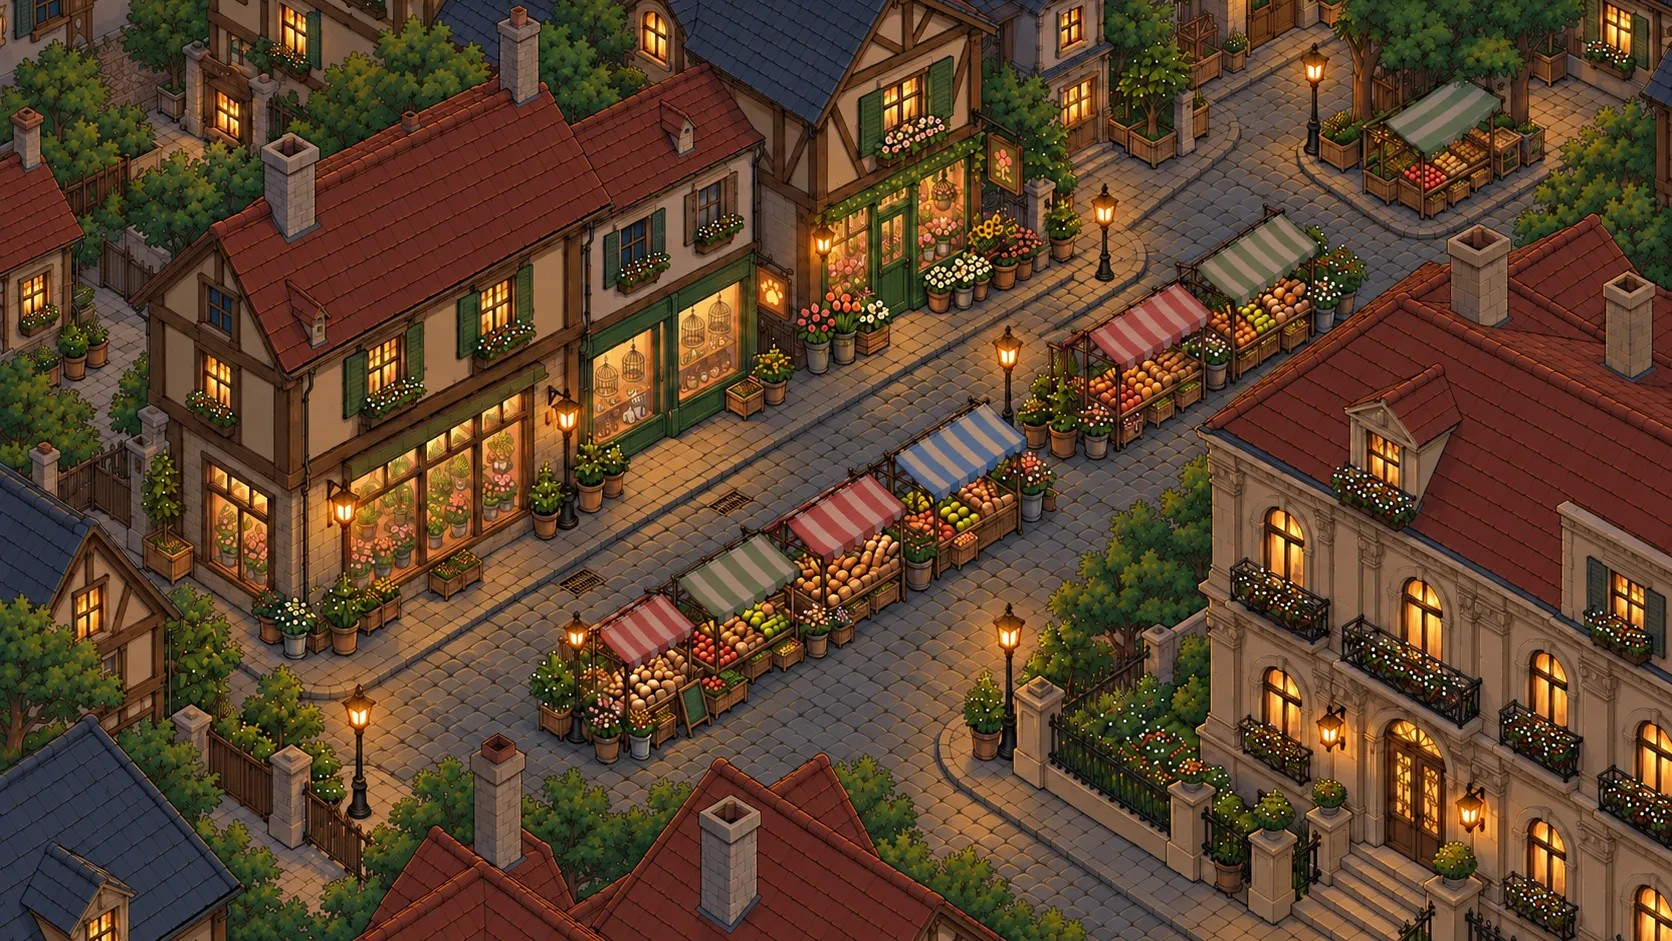
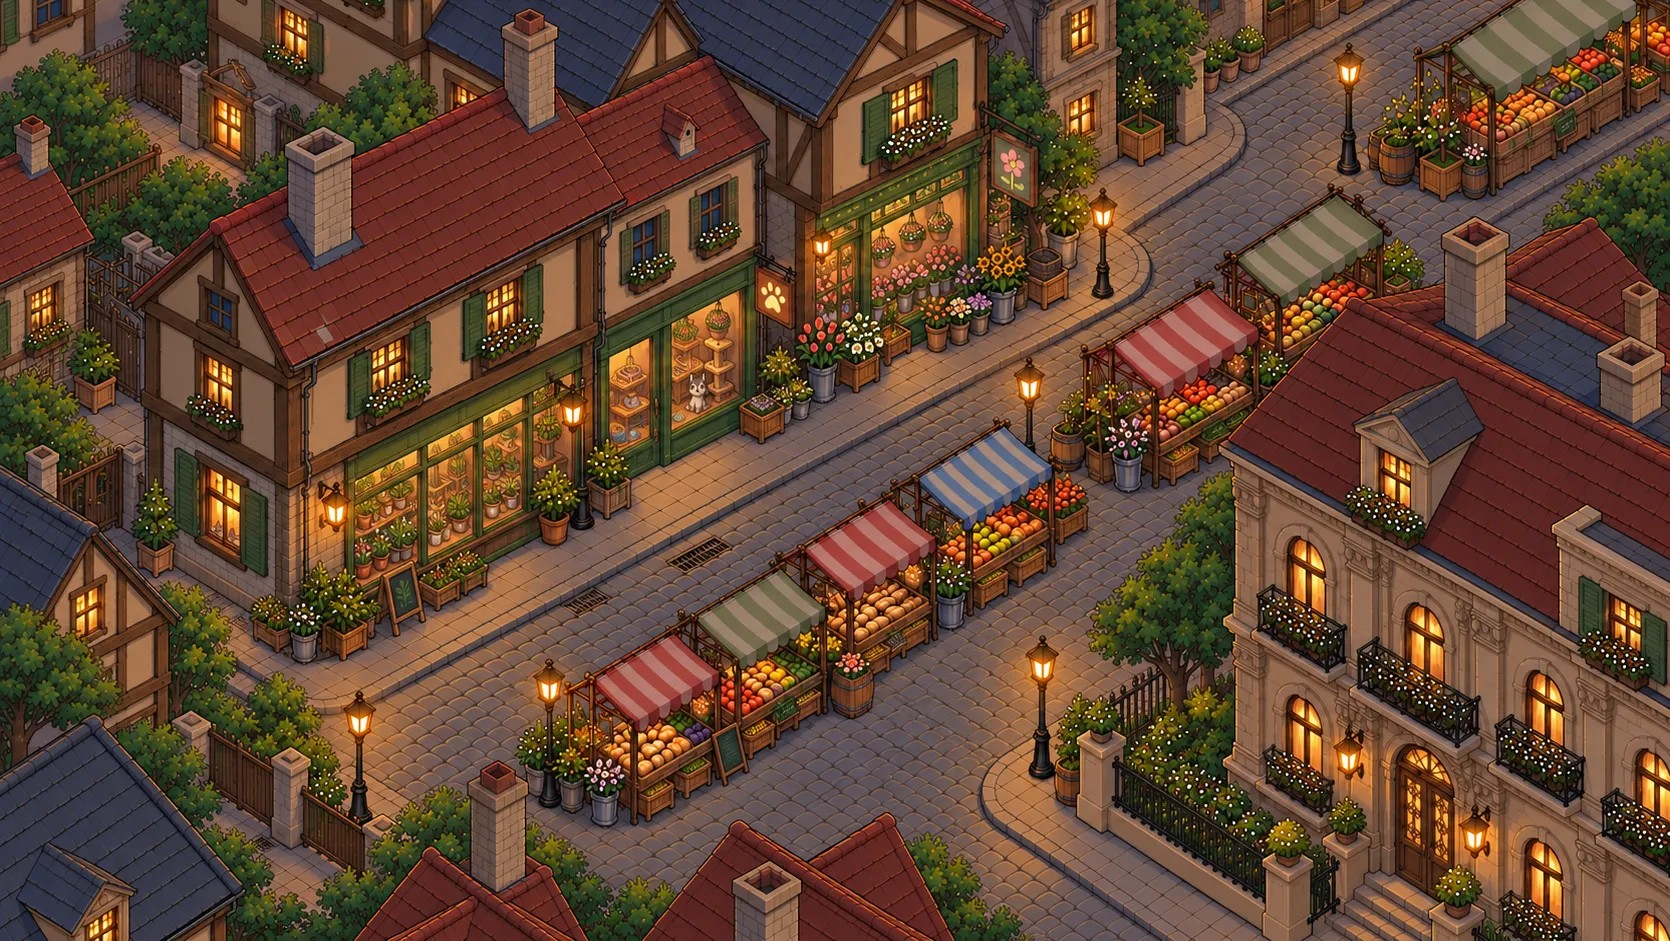
Map: final town picture
Claude-Session: https://claude.ai/code/session_01KbwSo6yL3mitC5MkkWGPtA

diff --git a/src/screens/MapScreen.js b/src/screens/MapScreen.js
@@ -17,7 +17,7 @@ const BUTTONS = [
   { label: 'NURSERY', dest: 'Nursery', x: 354,  y: 330 },
   { label: 'HOME',    dest: 'Home',    x: 70,   y: 500 },
   { label: 'ADOPT',   dest: 'PetShop', x: 543,  y: 262 },
-  { label: 'APARTMENTS', dest: 'Lobby', x: 1169, y: 600 },
+  { label: 'APARTMENTS', dest: 'Lobby', x: 1173, y: 625 },
   { label: 'FLORIST', dest: 'Counter', x: 741,  y: 255 },
 ];
 
